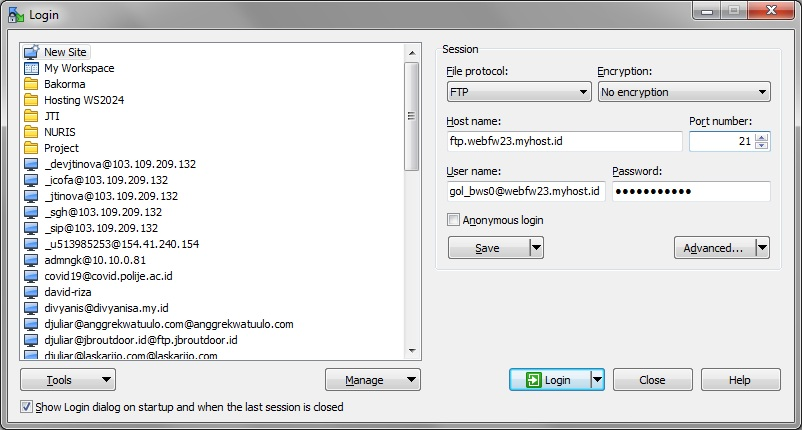
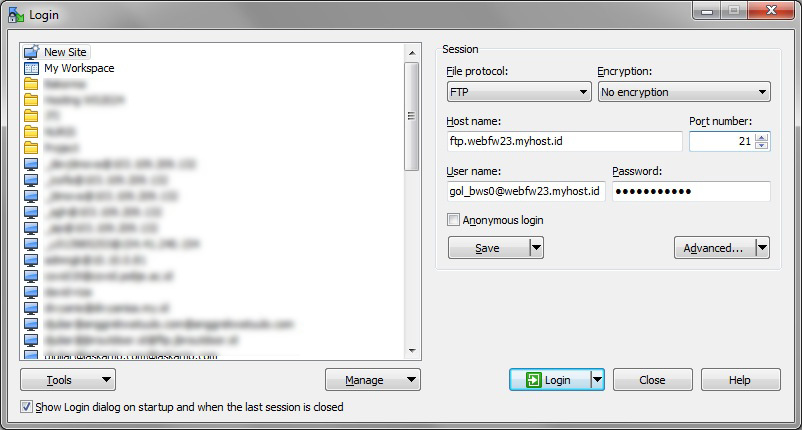
Update Privacy Folder dan Password

Changed region(s): [[0.0312, 0.1814, 0.3741, 0.8465], [0.6546, 0.8767, 0.6858, 0.907]]

diff --git a/Deployment Laravel ke Server Hosting.md b/Deployment Laravel ke Server Hosting.md
@@ -1,7 +1,13 @@
+| Pokok Bahasan | Deployment Laravel ke Server Hosting    |
+| ------------: | :-------------------------------------- |
+| Praktikum     | Workshop Sistem Informasi Web Framework |
+| Pengampu 	    | David Juli Ariyadi, S.Kom., M.Kom.      |
+| Minggu Ke-    | 14                                      |
+
 # Deployment Laravel ke Server Hosting
 
 ## A. Cara Deployment Awal
-1. Silahkan buka WinSCP, yang belum punya silahkan diinstall dahulu di (https://winscp.net/eng/download.php)
+1. Silahkan buka WinSCP, yang belum punya silahkan diinstall dahulu di [https://winscp.net/eng/download.php](https://winscp.net/eng/download.php)
 2. Masuk ke FTP dengan pengaturan yang telah di berikan sesuai dengan Golongan dan Kelompok masing-masing, contoh pengaturannya sebagai berikut:
 ```ini
 # Golongan BWS Kelompok 0 (Project Manager)
@@ -9,7 +15,7 @@ WEB_URL = webfw23.myhost.id/gol_bws0
 HOSTNAME = ftp.webfw23.myhost.id
 PORT = 21
 USERNAME = gol_bws0@webfw23.myhost.id
-PASSWORD = Polije@1234
+PASSWORD = xxxxxxxx
 ```
 ![WinSCP](images/winscp_ftp.jpg)
 
@@ -18,9 +24,10 @@ PASSWORD = Polije@1234
 ![WinSCP](images/winscp_laravel.jpg)
 
 atau 
+
 4. Semua file laravel di archive dahulu dengan ekstensi zip.
 
-5. Gunakan library unzipper dari (https://github.com/ndeet/unzipper) untuk mengekstrak file zip projek laravel.
+5. Gunakan library [Unzipper](https://github.com/ndeet/unzipper) dari (https://github.com/ndeet/unzipper) untuk mengekstrak file zip projek laravel.
 
 ![Unzipper](images/unzipper.jpg)
 
@@ -28,7 +35,7 @@ lakukan refresh di winscp, maka file di dalam zip sudah terekstrak ke folder roo
 
 ![WinSCP](images/winscp_refresh.jpg)
 
-4. Lakukan setting file `.env`, berikut yang harus di ubah:
+6. Lakukan setting file `.env`, berikut yang harus di ubah:
 ```ini
 #Koneksi Database
 DB_CONNECTION=mysql
@@ -36,19 +43,19 @@ DB_HOST=127.0.0.1
 DB_PORT=3306
 DB_DATABASE=webfwmyh_gol_bws0
 DB_USERNAME=webfwmyh_gol_bws
-DB_PASSWORD=Polije@1234
+DB_PASSWORD=xxxxxxxx
 
 # awalnya `local`, ini yang akan mempengaruhi file upload akan menuju private atau public
 FILESYSTEM_DISK=public
 ```
-5. Lakukan Storage Link untuk menyambungkan folder `storage` ke `public`
+7. Lakukan Storage Link untuk menyambungkan folder `storage` ke `public`
 ```bash
 php artisan storage:link
 ```
 
-## B. Cara Kedua (Memindahkan index di dalam folder public)
+## B. Cara Pertama (Memindahkan `index.php` di dalam folder public)
 1. Buka folder public dan copy file `index.php` dan `.htaccess` ke root folder.
-2. Buka file `index.php` yang di root folder kemudian hapus bagian `../` agar direktori dengan `storage`.`vendor` dan `bootstrap` terkoneksi dengan benar.
+2. Buka file `index.php` yang di root folder kemudian hapus bagian `../` agar direktori `storage`,`vendor` dan `bootstrap` terkoneksi dengan benar.
 3. Buka file `.env` lalu tambahkan pengaturan berikut agar css, javascript dan gambar bisa terkoneksi.
 ```ini
 # Set ini sesuai folder kelompok
@@ -72,8 +79,8 @@ Options -Indexes
 </Files>
 ```
 
-## C. Cara Pertama (Metode menambahkan `.htaccess`)
-1. Buatkan folder baru di root misalkan `laravel`, kemudian masukkan file project laravel ke folder tersebut.
+## C. Cara Kedua (Metode menambahkan `.htaccess`)
+1. Buatkan folder baru di root misalkan `laravel` (Opsional), kemudian masukkan file project laravel ke folder tersebut.
 2. buat file .htaccess lalu isi dengan script berikut :
 ```sh
 <IfModule mod_rewrite.c>
